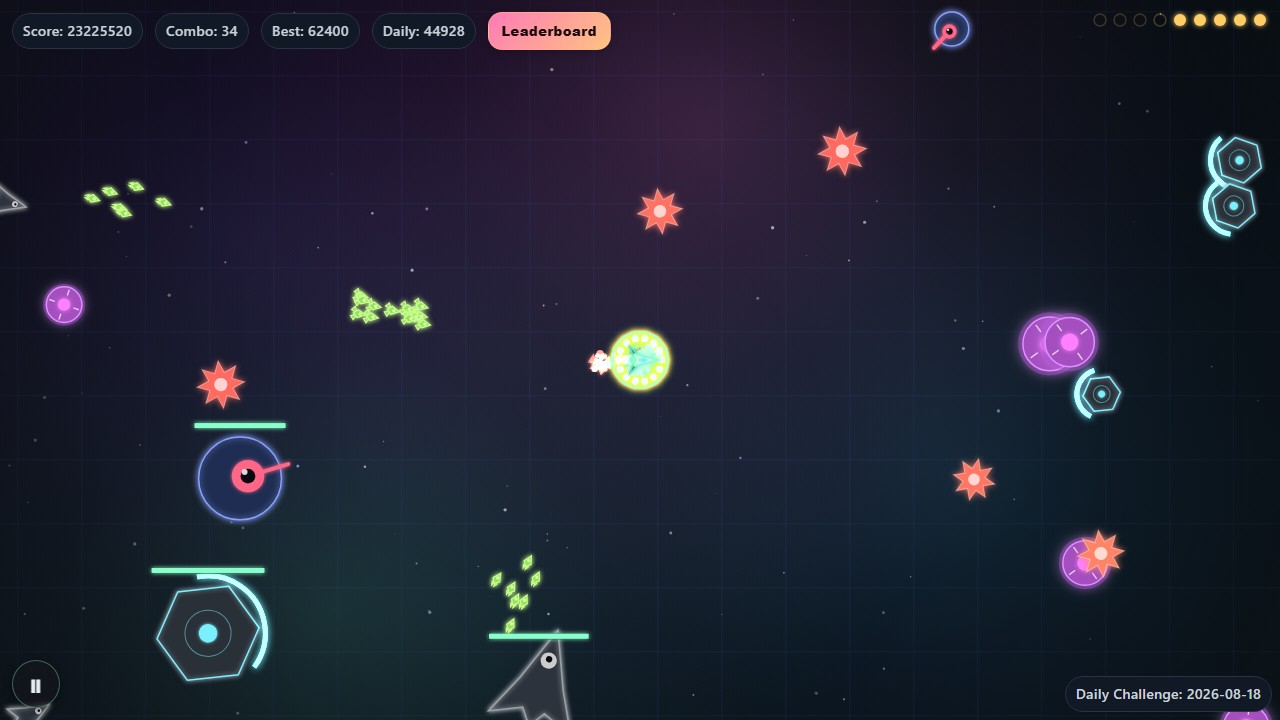
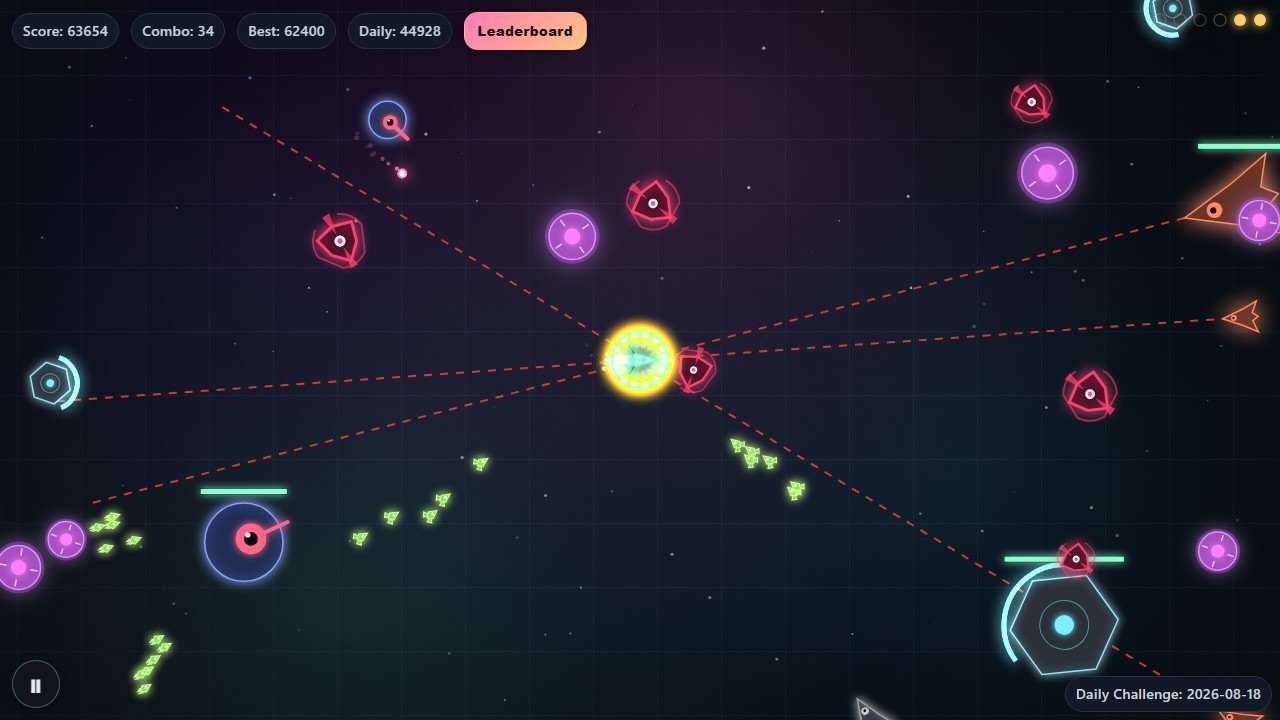
art: vivid enemy tint ramp, higher contrast, and real Cyberpunk grunt art
Three problems, one visible cause: the opening looked washed out.

Tint ramp. speedToColor mapped speed to colour starting from a muted blue-grey
(88,166,255), and baseSpeed opens at 90 — so every enemy sat at the palest end
of the ramp for the first minute, which is exactly when a new player decides
whether to keep playing. Endpoints are now electric cyan -> saturated gold ->
hot magenta-red, and the input window tightened from (speed-40)/270 to
(speed-70)/190 so opening speeds land in vivid cyan instead of grey. Added
speedToRGB so enemy art can build rim/fill/glow from the same tint.

Contrast. The nebulae composite with 'lighter', so the old #070710 base lifted
the whole mid-field and enemies had nothing to sit against. Base is now
#04040b, vignette 0.55 -> 0.62, nebula alpha 0.18 -> 0.155. The first pass cut
nebula alpha to 0.12, which crushed Jurassic's brown/olive palette to near
black — 0.155 keeps theme identity while still gaining separation.

Cyberpunk grunt. Every theme gives its most-spawned enemy real art —
Velociraptor, Jellyfish, Skull, Goblin, Asteroid, RGB-split square, Cogwheel —
except Cyberpunk, whose grunt was "8-pointed star, slow spin". Moving Cyberpunk
to the front of the rotation made the weakest art in the game the first thing
every player sees. It is now an Interceptor Drone: faceted hexagonal hull with
a bright rim, swept blades, and a counter-rotating sensor ring gated behind
perf.level.
[…]

diff --git a/game.js b/game.js
@@ -3658,12 +3658,22 @@
     ];
   }
 
-  const COL_BLUE = [88, 166, 255];
-  const COL_YELLOW = [255, 210, 119];
-  const COL_RED = [255, 95, 95];
+  // Enemy tint ramp, cool -> hot with rising speed. These used to start at a muted
+  // blue-grey (88,166,255) and, since baseSpeed opens at 90, that washed-out end is where
+  // every enemy sat for the first minute of a run — the palest possible look at exactly
+  // the moment a new player is deciding whether to keep playing.
+  const COL_BLUE = [64, 224, 255];    // electric cyan
+  const COL_YELLOW = [255, 208, 80];  // saturated gold
+  const COL_RED = [255, 64, 112];     // hot magenta-red
+
+  function speedToRGB(speed) {
+    const t = clamp01((speed - 70) / 190);
+    return t < 0.5 ? lerpColor(COL_BLUE, COL_YELLOW, t / 0.5)
+                   : lerpColor(COL_YELLOW, COL_RED, (t - 0.5) / 0.5);
+  }
 
   function speedToColor(speed) {
-    const t = clamp01((speed - 40) / 270);
+    const t = clamp01((speed - 70) / 190);   // tightened: opening speeds land in vivid cyan, not grey
     if (t < 0.5) {
       const u = t / 0.5;
       const c = lerpColor(COL_BLUE, COL_YELLOW, u);
@@ -3866,23 +3876,65 @@
       return;
     }
 
-    // Grunt — 8-pointed star, slow spin, speed-tinted
-    const fill = speedToColor(e.speed);
+    // Grunt — Interceptor drone. Every other theme gives its most-spawned enemy real art
+    // (Velociraptor, Jellyfish, Skull, Goblin, Asteroid, Cogwheel); Cyberpunk's was a plain
+    // 8-point star. Cyberpunk now opens the rotation, so this is the first enemy anyone meets.
+    const rgb = speedToRGB(e.speed);
+    const fill = `rgb(${rgb[0]},${rgb[1]},${rgb[2]})`;
+    const spin = e.age * 0.8;
     ctx.save();
-    ctx.translate(e.x, e.y); ctx.rotate(e.age * 0.8);
-    ctx.shadowColor = fill; ctx.shadowBlur = 12;
-    ctx.fillStyle = fill; ctx.strokeStyle = 'rgba(255,255,255,0.4)'; ctx.lineWidth = 1;
-    ctx.beginPath();
-    const pts = 8;
-    for (let i = 0; i < pts * 2; i++) {
-      const a = i * Math.PI / pts;
-      const rr = (i % 2 === 0) ? r * 1.15 : r * 0.6;
-      if (i === 0) ctx.moveTo(Math.cos(a) * rr, Math.sin(a) * rr);
-      else         ctx.lineTo(Math.cos(a) * rr, Math.sin(a) * rr);
+    ctx.translate(e.x, e.y);
+
+    // Sensor ring — three arcs counter-rotating against the hull. Skipped when the frame-rate
+    // governor has shed quality, since this is the most-spawned enemy in the game.
+    if (perf.level >= 2) {
+      ctx.rotate(-spin * 1.6);
+      // One path for all three arcs, and no shadow: canvas shadowBlur is the dominant cost
+      // here and this enemy spawns more than every other type combined.
+      ctx.strokeStyle = `rgba(${rgb[0]},${rgb[1]},${rgb[2]},0.55)`;
+      ctx.lineWidth = Math.max(1, r * 0.09);
+      ctx.beginPath();
+      for (let i = 0; i < 3; i++) {
+        const a0 = i * Math.PI * 2 / 3;
+        ctx.arc(0, 0, r * 1.24, a0, a0 + 1.05);
+      }
+      ctx.stroke();
+      ctx.rotate(spin * 1.6);
     }
-    ctx.closePath(); ctx.fill(); ctx.stroke();
-    ctx.shadowBlur = 0; ctx.fillStyle = 'rgba(255,255,255,0.7)';
-    ctx.beginPath(); ctx.arc(0, 0, r * 0.32, 0, Math.PI * 2); ctx.fill();
+
+    // Hull — dark faceted body with a bright rim, so the silhouette reads against the nebula
+    // instead of dissolving into it the way a flat-filled star did.
+    ctx.rotate(spin);
+    ctx.beginPath();
+    for (let i = 0; i < 6; i++) {
+      const ang = i * Math.PI / 3;
+      const rr = (i % 2 === 0) ? r * 1.04 : r * 0.76;
+      const px = Math.cos(ang) * rr, py = Math.sin(ang) * rr;
+      if (i === 0) ctx.moveTo(px, py); else ctx.lineTo(px, py);
+    }
+    ctx.closePath();
+    ctx.fillStyle = `rgba(${rgb[0] * 0.20 | 0},${rgb[1] * 0.20 | 0},${rgb[2] * 0.26 | 0},0.95)`;
+    ctx.shadowColor = fill; ctx.shadowBlur = 14; ctx.fill();
+    ctx.strokeStyle = fill; ctx.lineWidth = Math.max(1.4, r * 0.13); ctx.stroke();
+
+    // Swept blades along the long axis — gives it a heading and a wider silhouette
+    ctx.shadowBlur = 0;
+    ctx.fillStyle = `rgba(${rgb[0]},${rgb[1]},${rgb[2]},0.72)`;
+    for (const sgn of [1, -1]) {
+      ctx.beginPath();
+      ctx.moveTo(r * 0.32 * sgn, 0);
+      ctx.lineTo(r * 1.34 * sgn, -r * 0.19);
+      ctx.lineTo(r * 1.34 * sgn,  r * 0.19);
+      ctx.closePath(); ctx.fill();
+    }
+
+    // Core — the part that stays legible once the sprite is only a few pixels across
+    const pulse = 0.82 + 0.18 * Math.sin(e.age * 7);
+    ctx.fillStyle = '#ffffff';
+    ctx.beginPath(); ctx.arc(0, 0, r * 0.30 * pulse, 0, Math.PI * 2); ctx.fill();
+    ctx.shadowBlur = 0;
+    ctx.fillStyle = `rgba(${rgb[0]},${rgb[1]},${rgb[2]},0.9)`;
+    ctx.beginPath(); ctx.arc(0, 0, r * 0.15 * pulse, 0, Math.PI * 2); ctx.fill();
     ctx.restore();
   }
 
@@ -5876,7 +5928,9 @@
 
   function drawBackground() {
     // Solid base
-    ctx.fillStyle = '#070710';
+    // Darker ground than before: the nebulae composite with 'lighter', so a lighter base
+    // lifted the whole mid-field and enemies had nothing to sit against.
+    ctx.fillStyle = '#04040b';
     ctx.fillRect(0, 0, W, H);
 
     const comboPulse = Math.min(state.combo / 30, 1);
@@ -5893,8 +5947,8 @@
       const cy = (n.baseY + driftY) * H;
       const radius = n.radius * Math.max(W, H);
       const grad = ctx.createRadialGradient(cx, cy, 0, cx, cy, radius);
-      grad.addColorStop(0, n.color + '0.18)');
-      grad.addColorStop(0.5, n.color + '0.06)');
+      grad.addColorStop(0, n.color + '0.155)');
+      grad.addColorStop(0.5, n.color + '0.055)');
       grad.addColorStop(1, n.color + '0)');
       ctx.fillStyle = grad;
       ctx.fillRect(0, 0, W, H);
@@ -5929,7 +5983,7 @@
     // Corner vignette — subtle dark falloff toward the edges to focus play
     const vg = ctx.createRadialGradient(W/2, H/2, Math.min(W,H)*0.4, W/2, H/2, Math.max(W,H)*0.75);
     vg.addColorStop(0, 'rgba(0,0,0,0)');
-    vg.addColorStop(1, 'rgba(0,0,0,0.55)');
+    vg.addColorStop(1, 'rgba(0,0,0,0.62)');
     ctx.fillStyle = vg;
     ctx.fillRect(0, 0, W, H);
 

diff --git a/themes.html b/themes.html
@@ -121,8 +121,8 @@
   </p>
 
   <div class="enemy">
-    <h3>8-Pointed Star <span class="tag orbiter">Orbiter</span></h3>
-    <p>Rotates as it travels. Small core inside a larger spinning frame — the hitbox is the core, not the points. Easy to mistime your shot if you aim for the spike. Centre-mass aim only.</p>
+    <h3>Interceptor Drone <span class="tag orbiter">Orbiter</span></h3>
+    <p>Faceted hexagonal hull with swept blades and a counter-rotating sensor ring. The hitbox is the bright core, not the blades or the ring — aim centre-mass. This is the most-spawned enemy in the game and the first one you meet, so reading its core at a glance pays off more than any other habit. Its tint runs cyan when slow and shifts through gold to hot red as the difficulty ramp speeds it up.</p>
   </div>
   <div class="enemy">
     <h3>Alien Cell <span class="tag chaser">Chaser</span> <span class="tag swarm">Swarm</span></h3>
